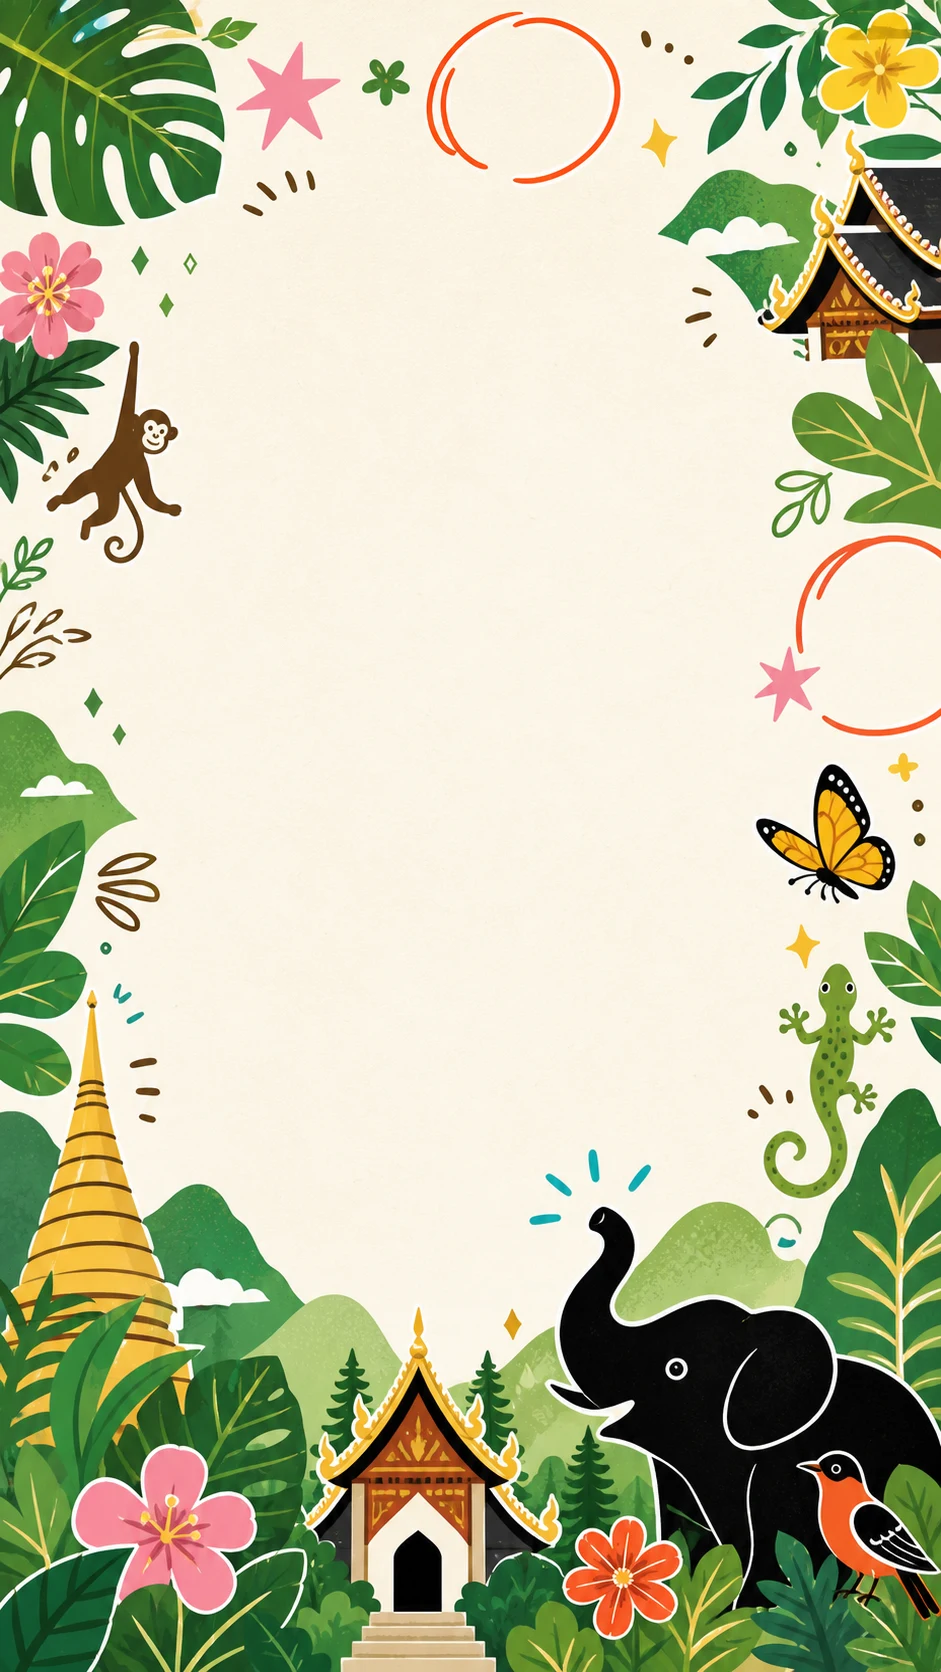
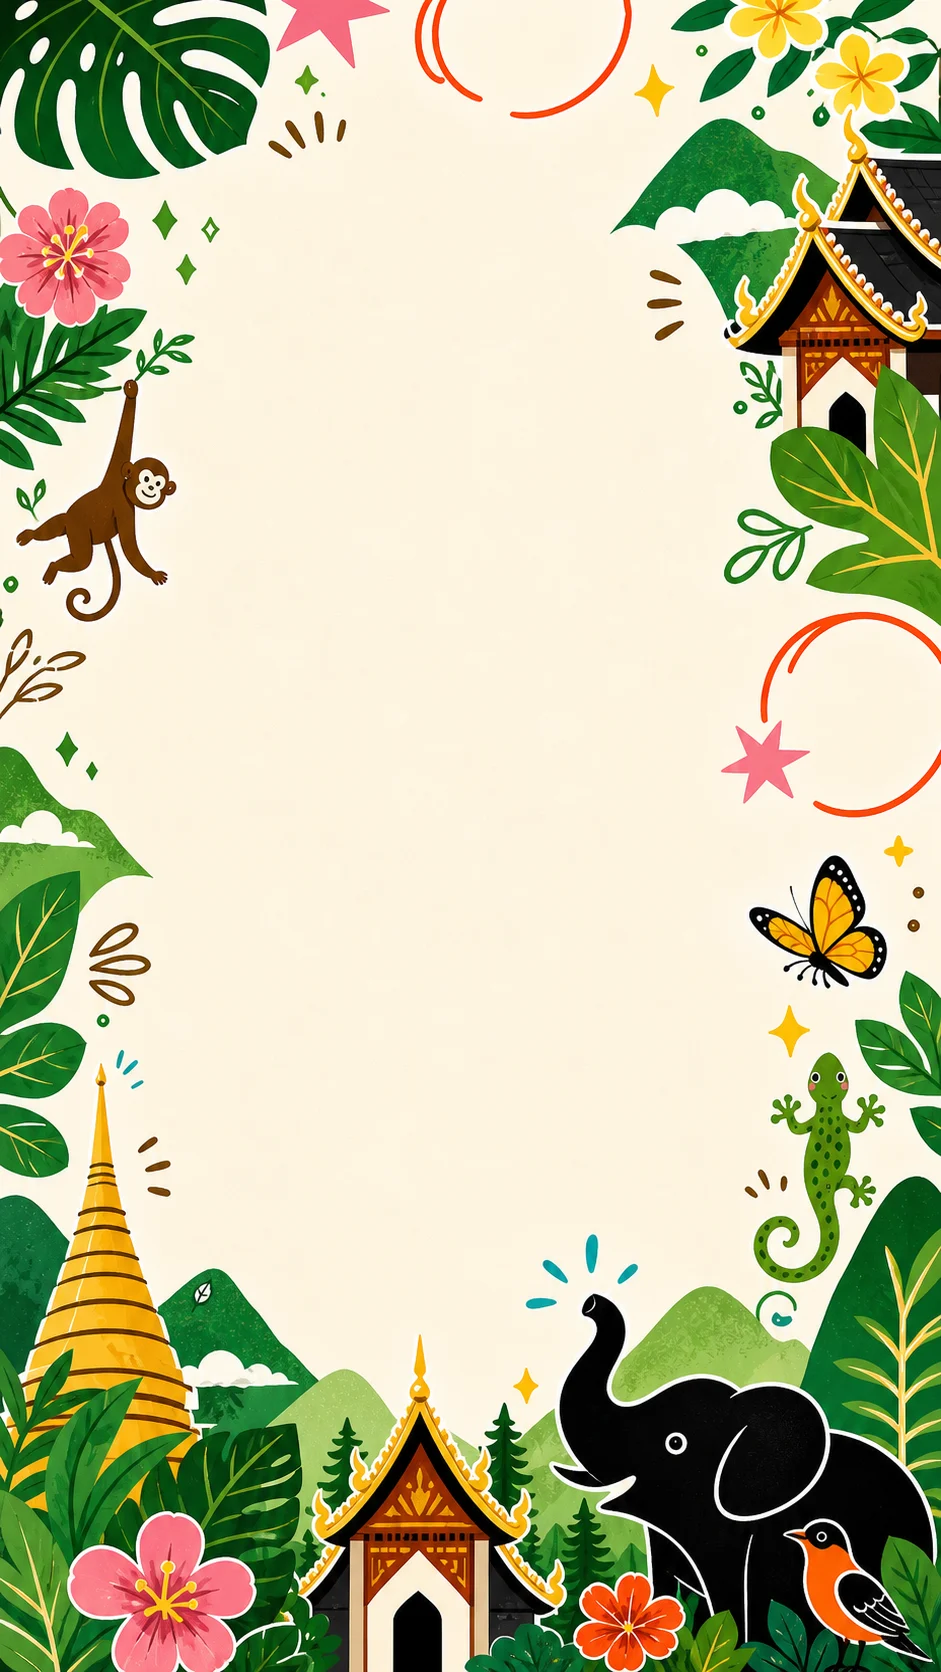
Clean animal album board background

diff --git a/CMI_MAP_TASK_LOG.md b/CMI_MAP_TASK_LOG.md
@@ -2706,7 +2706,7 @@
 
 - 背景：用户明确不希望把主 KV 原图虚化当背景，而是要按主 KV 的轻漫、清迈、热带动物风格重新生成一张四周有元素、中间留白的贴画底图，用来凸显自动抠出的神奇生物贴纸。
 - 本轮实现：
-  - 新增图鉴专用留白画板 `wild-sticker-album-board-v1.webp`：四周保留卡通植物、寺庙、山、蝴蝶、壁虎等元素，中间保持干净留白。
+  - 新增图鉴专用留白画板 `wild-sticker-album-board-v1.webp`：四周保留卡通植物、寺庙、山、蝴蝶、壁虎等元素，中间保持干净留白，不加占位虚线。
   - 图鉴页不再引用活动主 KV 原图，只使用新生成的图鉴底图。
   - 收紧贴纸排列：缩小横纵间距、压低网格行高，并放大贴纸槽位，让已收集动物更像贴画册而不是稀疏卡片。
 - 验证结果：
